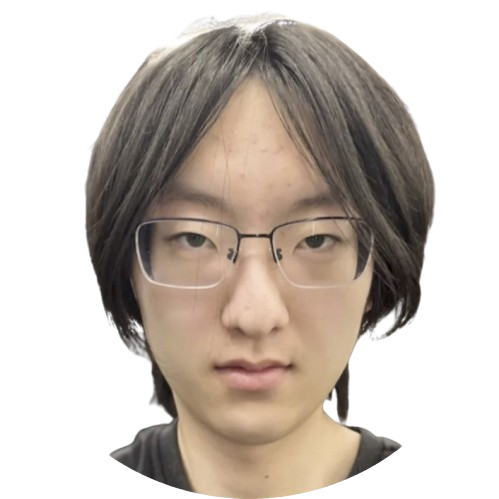
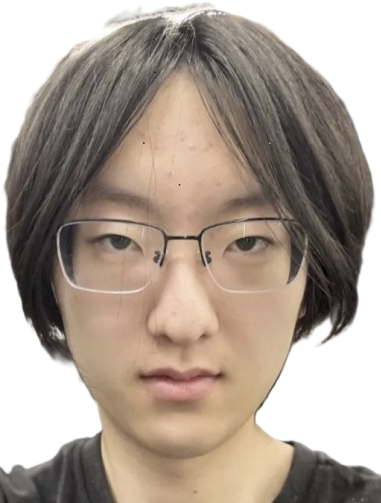
improved home

diff --git a/src/components/homeContent/homeContent.tsx b/src/components/homeContent/homeContent.tsx
@@ -3,11 +3,11 @@ import "./home.css";
 export default function HomeContent({}) {
   return (
     <div className="content">
-      <h1 className="titlecard">LARRY PAN</h1>
+      <h1 className="titlecard" style={{ marginBottom: "-0.5rem" }}>LARRY PAN</h1>
 
       <div className="home-body" style={{ margin: "0rem" }}>
         <div className="content" style={{ marginBottom: "2rem" }}>
-          <p className="home-intro">
+          <p className="home-intro" style={{marginBottom: "1rem"}}>
             Comptuer Science @{" "}
             <a
               href="https://uwaterloo.ca/"
@@ -46,7 +46,7 @@ export default function HomeContent({}) {
           />
           <img
             src={"/pfp.png"}
-            width="175px"
+            width="130px"
             style={{
               objectFit: "contain",
               filter: "grayscale(1) " + "blur(0.5px)",
@@ -59,7 +59,7 @@ export default function HomeContent({}) {
           <a href="#" className="page-link">
             HOME
           </a>
-          <a href="#projects" className="page-link">
+          <a href="/projects/" className="page-link">
             PROJECTS
           </a>
           <a href="#contact" className="page-link">

diff --git a/src/App.tsx b/src/App.tsx
@@ -1,7 +1,7 @@
 import React from "react";
-import CRTScreen from "./components/CRTScreen/crt";
-import TitleContent from "./components/titleContent/titleContent";
-import HomeContent from "./components/homeContent/homeContent";
+import CRTScreen from "./components/CRTScreen/CRT";
+import TitleContent from "./components/titleContent/TitleContent";
+import HomeContent from "./components/homeContent/HomeContent";
 
 type Scene = "title" | "black" | "main";
 

diff --git a/projects/index.html b/projects/index.html
@@ -1,0 +1,13 @@
+<!doctype html>
+<html lang="en">
+  <head>
+    <meta charset="UTF-8" />
+    <link rel="icon" type="image/svg+xml" href="/vite.svg" />
+    <meta name="viewport" content="width=device-width, initial-scale=1.0" />
+    <title>i am so cooked</title>
+  </head>
+  <body>
+    <div id="root"></div>
+    <script type="module" src="/src/projects/main.tsx"></script>
+  </body>
+</html>

diff --git a/src/projects/main.tsx b/src/projects/main.tsx
@@ -1,10 +1,10 @@
 import { StrictMode } from "react";
 import { createRoot } from "react-dom/client";
-import "./style.css";
-import App from "./App.tsx";
+import "../style.css";
+import Projects from "./Projects.tsx";
 
 createRoot(document.getElementById("root")!).render(
   <StrictMode>
-    <App />
+    <Projects />
   </StrictMode>,
 );

diff --git a/src/components/homeContent/home.css b/src/components/homeContent/home.css
@@ -1,4 +1,4 @@
-/* Home page body styles - matches titlecard aesthetic */
+/* Home page body styles */
 .home-body {
   text-align: center;
   font-family: "Times New Roman", Times, serif;

diff --git a/src/style.css b/src/style.css
@@ -9,3 +9,11 @@
 body {
   background-color: #1b1b1b;
 }
+
+::selection {
+  background-color: #1e1e1e;
+}
+
+::-moz-selection {
+  background-color: #1e1e1e;
+}

diff --git a/src/projects/Projects.tsx b/src/projects/Projects.tsx
@@ -1,0 +1,7 @@
+import React from 'react'
+
+export default function Projects() {
+  return (
+    <p>haudjfks</p>
+  )
+}
